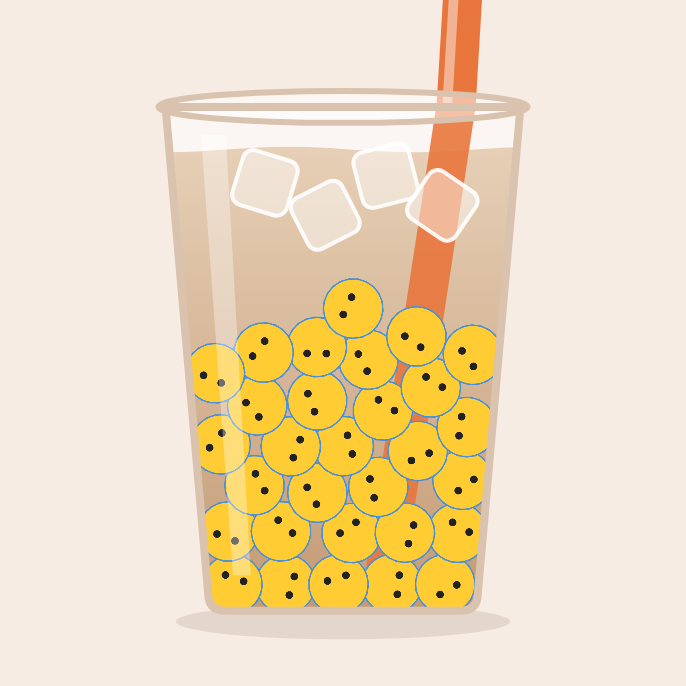
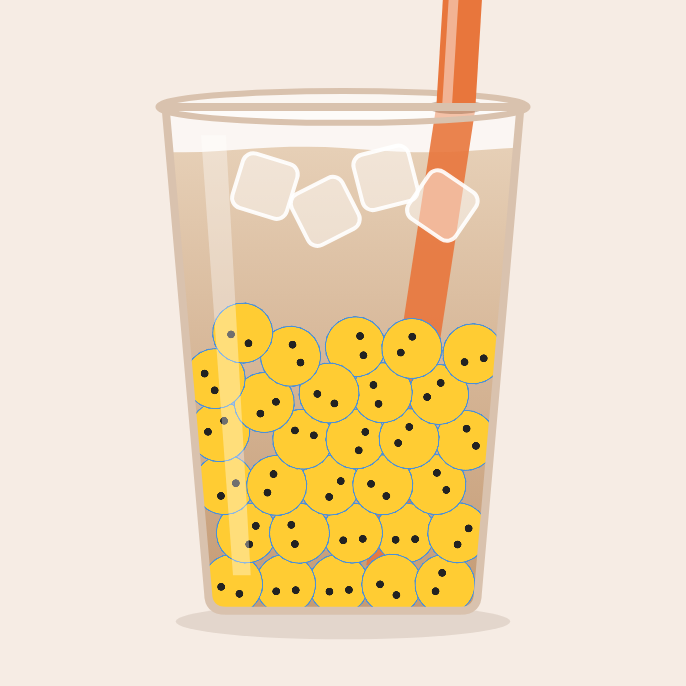
Tapioca maker: straw pokes through the lid film instead of overlapping it
Claude-Session: https://claude.ai/code/session_019WGMtRLvMa7SP7LbuzZCPG

diff --git a/games/tapioca-maker/index.html b/games/tapioca-maker/index.html
@@ -384,17 +384,21 @@
       g.globalAlpha = 1;
     }
     g.restore();
-    // straw (above liquid / outside)
-    g.save();
-    g.strokeStyle = opt.straw; g.lineWidth = sw;
-    g.beginPath(); g.moveTo(sx1 * 0.9 + sx0 * 0.1, 0.01); g.lineTo(sx1, sy1); g.stroke();
-    g.strokeStyle = 'rgba(255,255,255,.45)'; g.lineWidth = sw * 0.25;
-    g.beginPath(); g.moveTo(sx1 * 0.9 + sx0 * 0.1 - 0.025, 0.01); g.lineTo(sx1 - 0.025, sy1); g.stroke();
-    g.restore();
     // sealed film + cup outline + shine
     g.fillStyle = 'rgba(255,255,255,.5)';
     g.beginPath(); g.ellipse(0, 0, CUP.tw / 2 + 0.02, 0.045, 0, 0, Math.PI * 2); g.fill();
     g.strokeStyle = '#d9c2ae'; g.lineWidth = 3 * lw; g.stroke();
+    // puncture in the film where the straw goes through
+    const ex = sx1 * 0.9 + sx0 * 0.1;
+    g.fillStyle = 'rgba(120,80,50,.35)';
+    g.beginPath(); g.ellipse(ex, 0, sw * 0.75, 0.02, 0, 0, Math.PI * 2); g.fill();
+    // straw sticking out through the film
+    g.save();
+    g.strokeStyle = opt.straw; g.lineWidth = sw;
+    g.beginPath(); g.moveTo(sx1 * 0.9 + sx0 * 0.1, 0); g.lineTo(sx1, sy1); g.stroke();
+    g.strokeStyle = 'rgba(255,255,255,.45)'; g.lineWidth = sw * 0.25;
+    g.beginPath(); g.moveTo(sx1 * 0.9 + sx0 * 0.1 - 0.025, 0); g.lineTo(sx1 - 0.025, sy1); g.stroke();
+    g.restore();
     cupPath(g); g.strokeStyle = '#d9c2ae'; g.lineWidth = 4 * lw; g.stroke();
     g.fillStyle = 'rgba(255,255,255,.35)';
     g.beginPath(); g.moveTo(-0.4, 0.08); g.lineTo(-0.33, 0.08); g.lineTo(-0.26, CUP.h - 0.1); g.lineTo(-0.31, CUP.h - 0.1); g.closePath(); g.fill();
